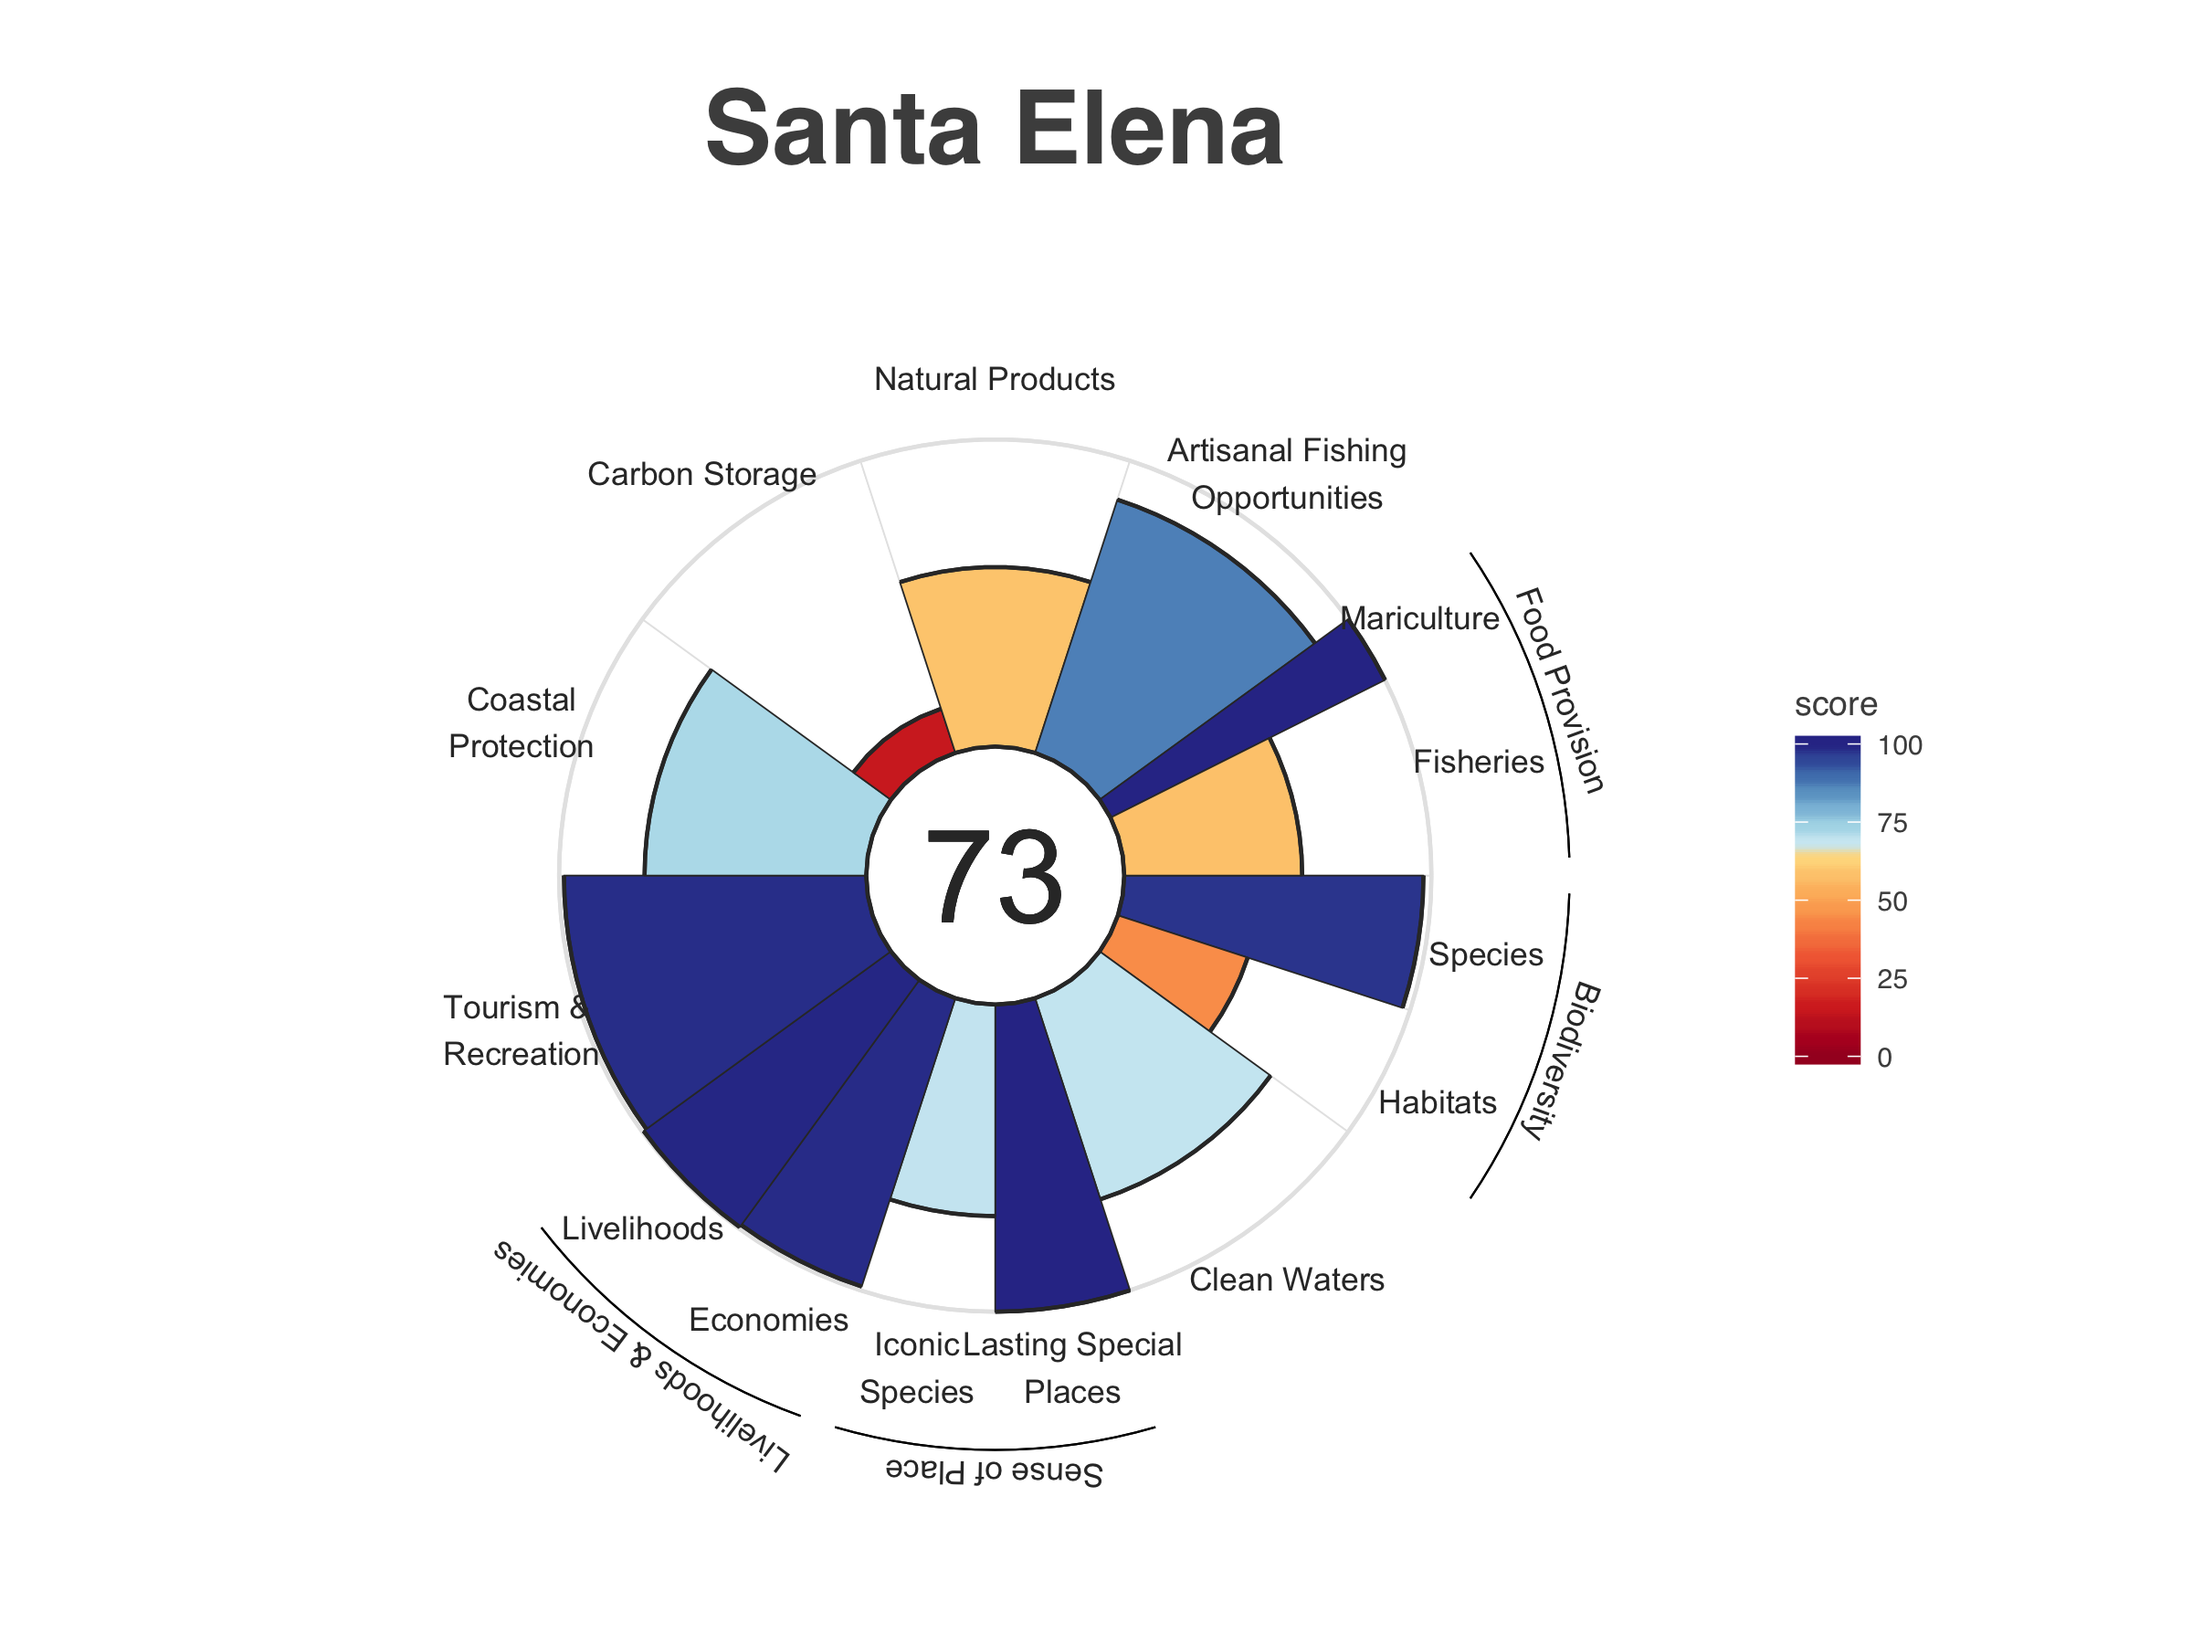
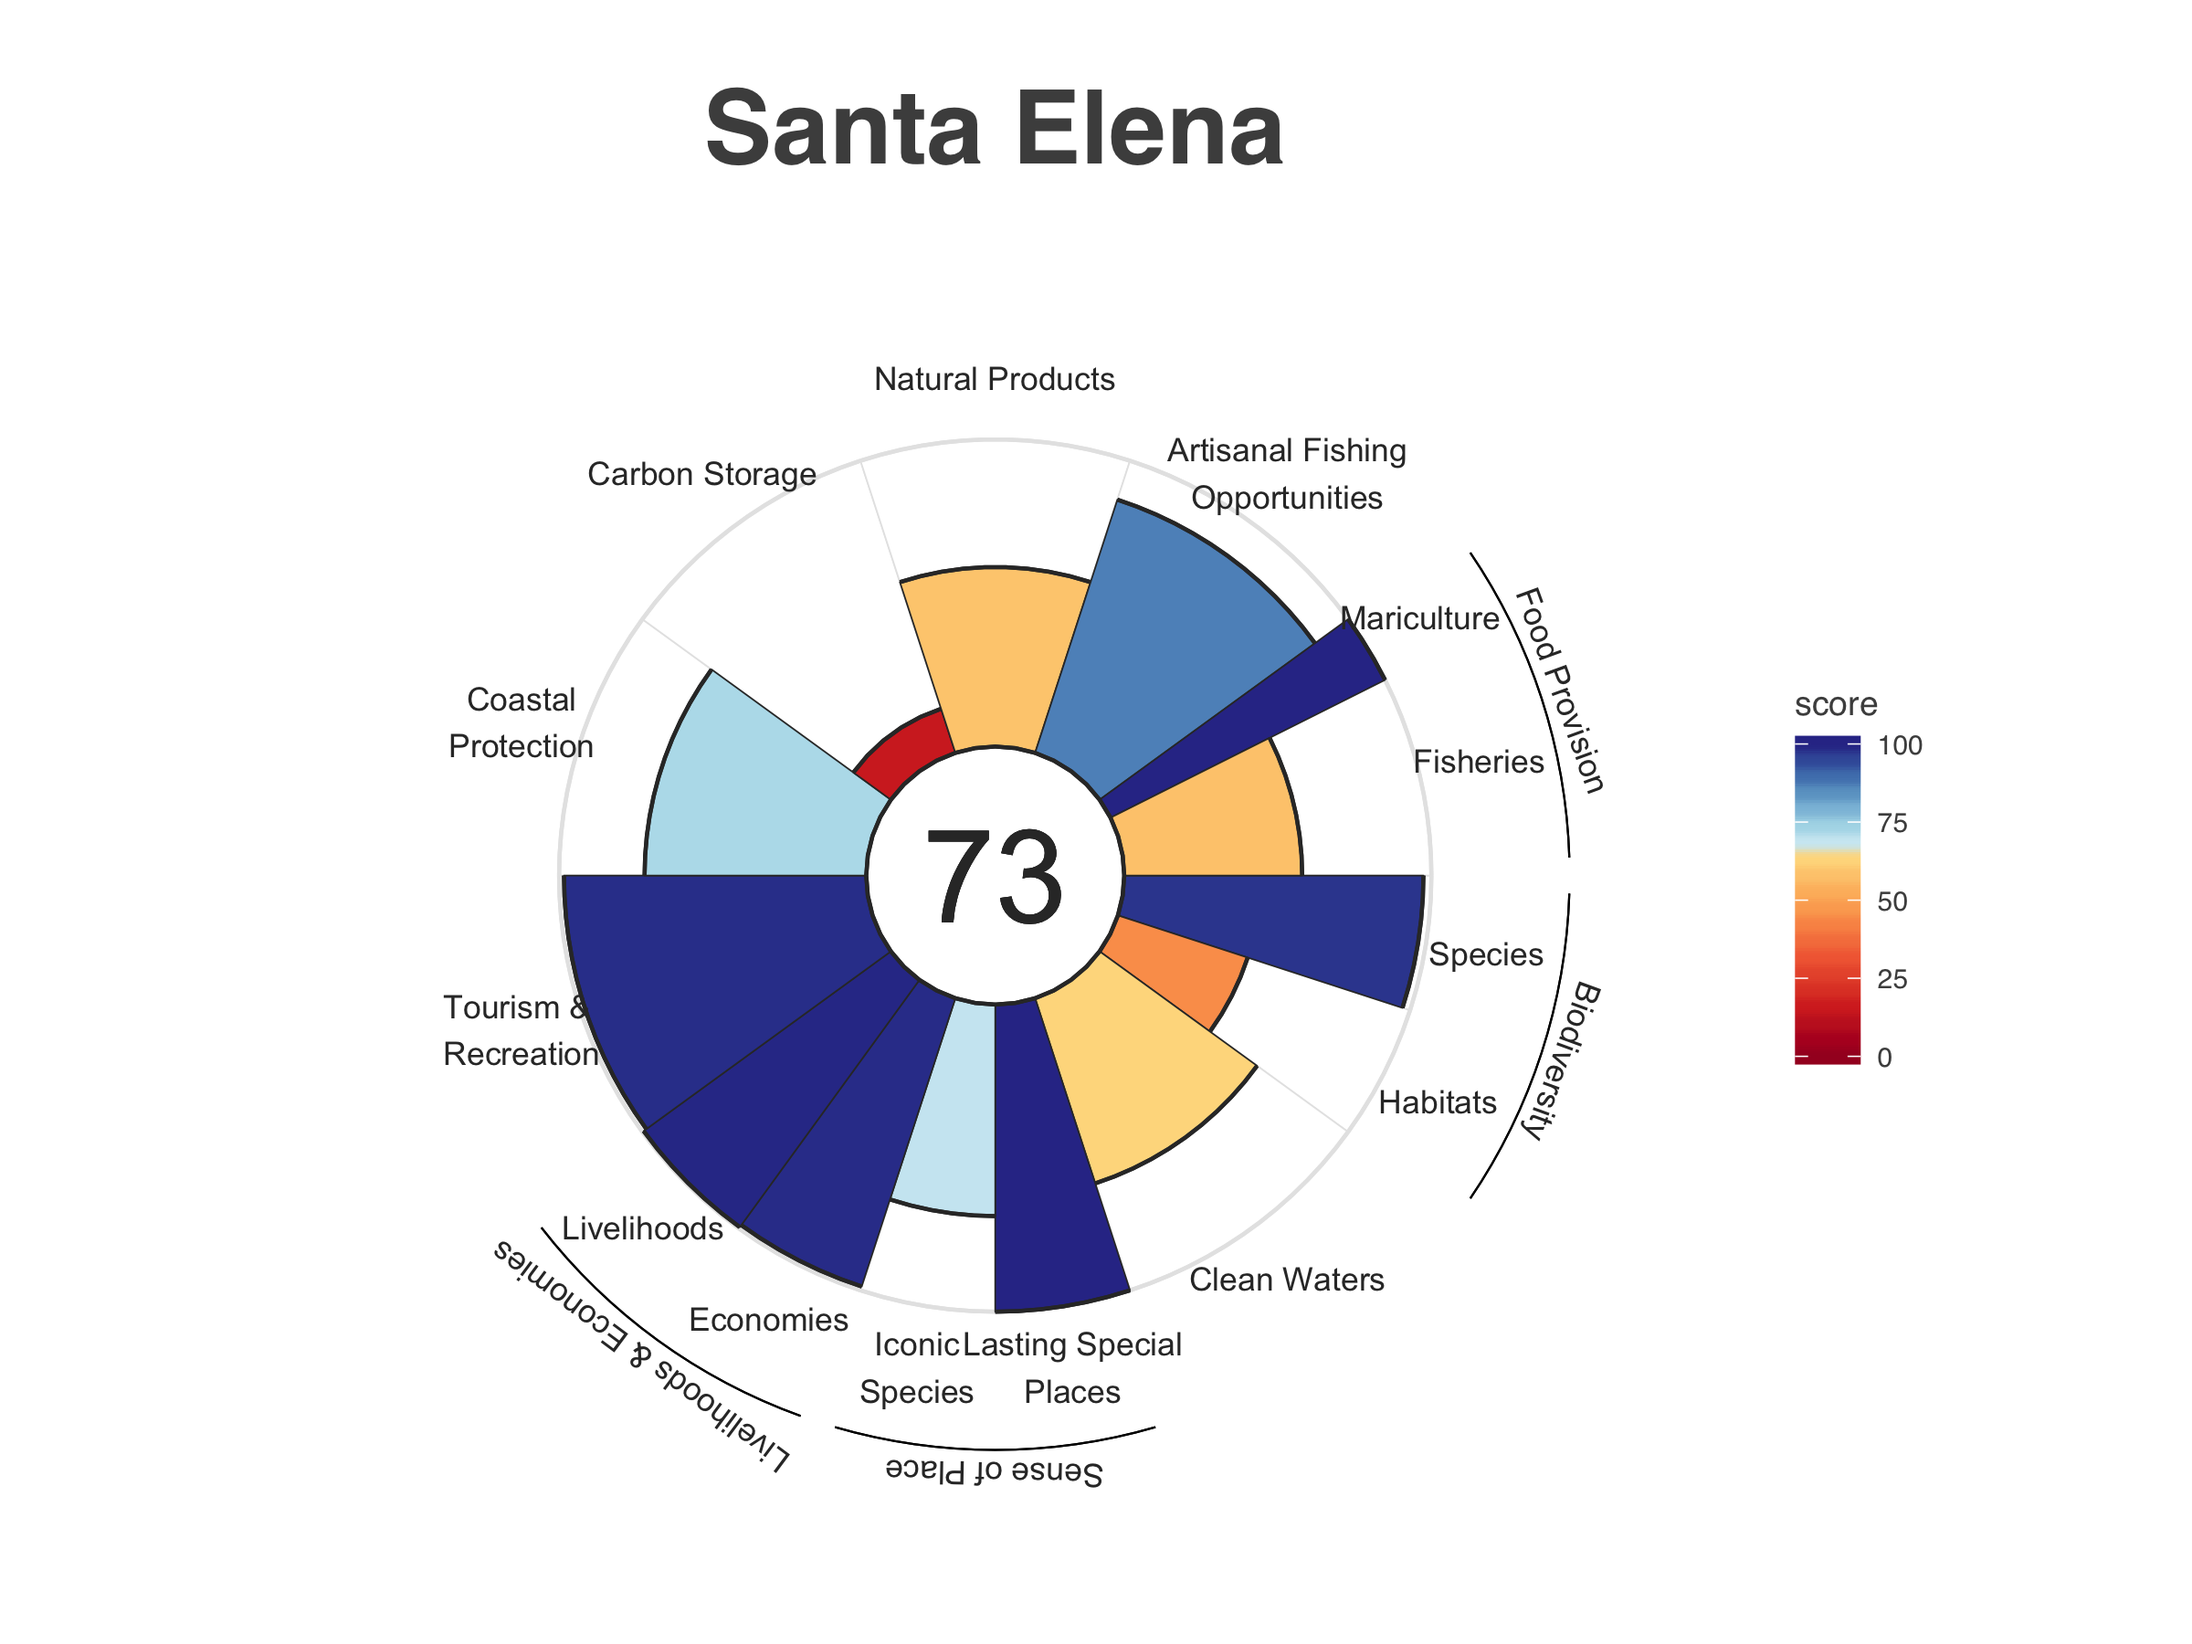
Update Results after Karla's Modification of CW trend files

Changed region(s): [[0.4688, 0.5911, 0.5938, 0.7467]]

diff --git a/LastScores.md b/LastScores.md
@@ -291,5 +291,156 @@ Called from: tbl_varsy)
 147    TR     trend         7  -0.06
 ```
 
+#Latest Scores  (Oct 24 2019)
 
-
+```
+> scores %>% filter(dimension %in% c("status","trend", "score"))
+     goal dimension region_id  score
+1      AO     score         0  88.21
+2      AO     score         6  86.68
+3      AO     score         7  89.73
+4      AO    status         0  81.53
+5      AO    status         6  80.72
+6      AO    status         7  82.34
+7      AO     trend         6   0.03
+8      AO     trend         7   0.07
+9      BD     score         0  71.95
+10     BD     score         6  70.92
+11     BD     score         7  72.98
+12     BD    status         0  76.71
+13     BD    status         6  76.72
+14     BD    status         7  76.71
+15     BD     trend         6  -0.44
+16     BD     trend         7  -0.34
+17     CP     score         0  75.91
+18     CP     score         6  72.17
+19     CP     score         7  79.64
+20     CP    status         0  96.59
+21     CP    status         6  99.96
+22     CP    status         7  93.22
+23     CP     trend         6  -1.00
+24     CP     trend         7  -0.62
+25     CS     score         0  15.83
+26     CS     score         6  15.09
+27     CS     score         7  16.57
+28     CS    status         0  20.26
+29     CS    status         6  20.99
+30     CS    status         7  19.53
+31     CS     trend         6  -1.00
+32     CS     trend         7  -0.62
+33     CW     score         0  68.70
+34     CW     score         6  63.38
+35     CW     score         7  74.01
+36     CW    status         0  69.92
+37     CW    status         6  63.62
+38     CW    status         7  76.22
+39     CW     trend         6  -0.03
+40     CW     trend         7  -0.13
+41    ECO     score         0  84.02
+42    ECO     score         6  98.68
+43    ECO     score         7  69.37
+44    ECO    status         0  98.68
+45    ECO    status         6  97.36
+46    ECO    status         7 100.00
+47    ECO     trend         6   0.45
+48    ECO     trend         7  -1.00
+49    FIS     score         0  57.94
+50    FIS     score         6  57.94
+51    FIS     score         7  57.94
+52    FIS    status         0  55.50
+53    FIS    status         6  55.50
+54    FIS    status         7  55.50
+55    FIS     trend         6   0.00
+56    FIS     trend         7   0.00
+57     FP     score         0  78.25
+58     FP     score         6  78.25
+59     FP     score         7  78.25
+60     FP    status         0  76.99
+61     FP    status         6  76.99
+62     FP    status         7  76.99
+63     FP     trend         6   0.22
+64     FP     trend         7   0.22
+65    HAB     score         0  46.48
+66    HAB     score         6  44.42
+67    HAB     score         7  48.54
+68    HAB    status         0  58.60
+69    HAB    status         6  58.61
+70    HAB    status         7  58.59
+71    HAB     trend         6  -0.88
+72    HAB     trend         7  -0.67
+73    ICO     score         0  69.36
+74    ICO     score         6  68.88
+75    ICO     score         7  69.84
+76    ICO    status         0  64.12
+77    ICO    status         6  64.12
+78    ICO    status         7  64.12
+79    ICO     trend         6   0.11
+80    ICO     trend         7   0.14
+81  Index     score         0  71.78
+82  Index     score         6  72.69
+83  Index     score         7  70.88
+84     LE     score         0  91.76
+85     LE     score         6  99.09
+86     LE     score         7  84.43
+87     LE    status         0  98.84
+88     LE    status         6  98.18
+89     LE    status         7  99.50
+90     LE     trend         6   0.70
+91     LE     trend         7  -0.03
+92    LIV     score         0  99.50
+93    LIV     score         6  99.50
+94    LIV     score         7  99.50
+95    LIV    status         0  98.99
+96    LIV    status         6  98.99
+97    LIV    status         7  98.99
+98    LIV     trend         6   0.95
+99    LIV     trend         7   0.93
+100   LSP     score         0 100.00
+101   LSP     score         6 100.00
+102   LSP     score         7 100.00
+103   LSP    status         0 100.00
+104   LSP    status         6 100.00
+105   LSP    status         7 100.00
+106   LSP     trend         6   0.00
+107   LSP     trend         7   0.00
+108   MAR     score         0 100.00
+109   MAR     score         6 100.00
+110   MAR     score         7 100.00
+111   MAR    status         0 100.00
+112   MAR    status         6 100.00
+113   MAR    status         7 100.00
+114   MAR     trend         6   0.46
+115   MAR     trend         7   0.46
+116    NP     score         0  58.45
+117    NP     score         6  58.45
+118    NP     score         7  58.45
+119    NP    status         0  54.62
+120    NP    status         6  54.62
+121    NP    status         7  54.62
+122    NP     trend         6   0.01
+123    NP     trend         7   0.01
+124    SP     score         0  84.68
+125    SP     score         6  84.44
+126    SP     score         7  84.92
+127    SP    status         0  82.06
+128    SP    status         6  82.06
+129    SP    status         7  82.06
+130    SP     trend         6   0.06
+131    SP     trend         7   0.07
+132   SPP     score         0  97.41
+133   SPP     score         6  97.41
+134   SPP     score         7  97.41
+135   SPP    status         0  94.82
+136   SPP    status         6  94.82
+137   SPP    status         7  94.82
+138   SPP     trend         6   0.00
+139   SPP     trend         7   0.00
+140    TR     score         0  84.11
+141    TR     score         6  98.41
+142    TR     score         7  69.81
+143    TR    status         0  82.55
+144    TR    status         6  96.82
+145    TR    status         7  68.28
+146    TR     trend         6  -0.03
+147    TR     trend         7  -0.06
+```
